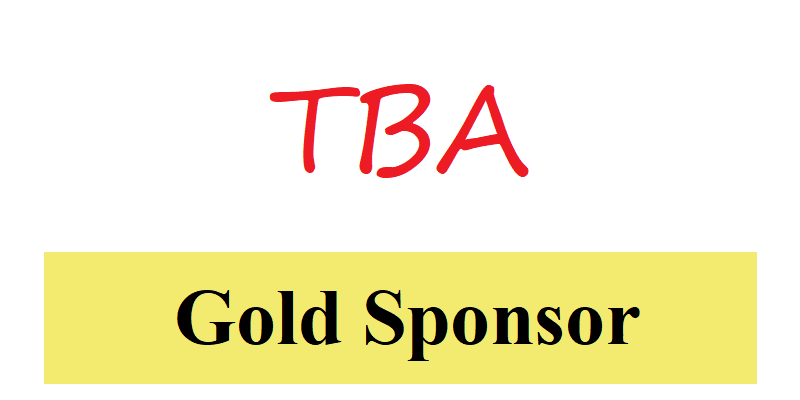
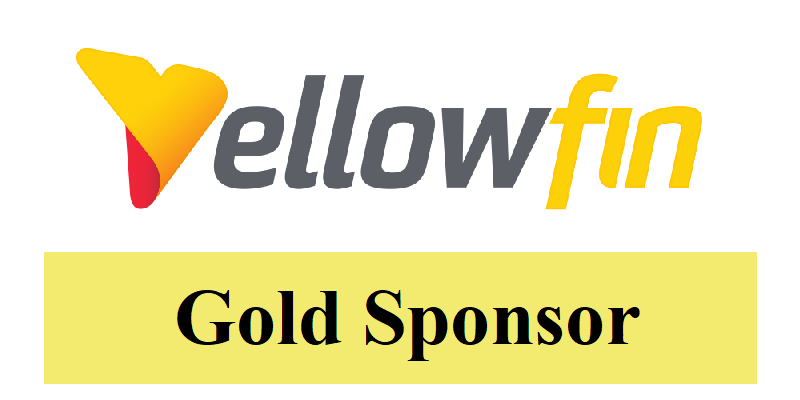
m

Changed region(s): [[0.0938, 0.12, 0.875, 0.54]]

diff --git a/BigDataSociety/Hackathon/2018-07/index.html b/BigDataSociety/Hackathon/2018-07/index.html
@@ -136,8 +136,8 @@
             <hr />
 
 
-            <a href="#" target="_blank"><img src="image\Platinum.png" width="200" /></a> &nbsp;&nbsp;&nbsp;&nbsp;
-            <a href="#" target="_blank"><img src="image\Gold.png" width="200" /></a> &nbsp;&nbsp;&nbsp;&nbsp;
+            <a href="https://www.sas.com/" target="_blank"><img src="image\Platinum.png" width="200" /></a> &nbsp;&nbsp;&nbsp;&nbsp;
+            <a href="https://www.yellowfinbi.com/" target="_blank"><img src="image\Gold.png" width="200" /></a> &nbsp;&nbsp;&nbsp;&nbsp;
             <a href="#" target="_blank"><img src="image\Silver.png" width="200" /></a> &nbsp;&nbsp;&nbsp;&nbsp;
             <a href="#" target="_blank"><img src="image\Bronze.png" width="200" /></a> 
 
@@ -158,11 +158,11 @@
             <ul>
                 <li>08:30-09:00: Registration</li>
                 <li>09:00-10:00: Key Note, <a href="https://data-science-group.github.io/people/aminbeheshti/" target="_blank">Dr. Amin Beheshti</a>, "Big Data and the Future of our Kids!"</li>
-                <li>10:00-11:00: Industry Talk 1 (TBA)</li>
+                <li>10:00-11:00: Industry Talk 1 (SAS)</li>
                 <li>11:00-12:00: Industry Talk 2 (TBA)</li>
                 <li>12:00-13:00: Lunch and networking</li>
-                <li>13:00-15:00: Workshop 1 (TBA)</li>
-                <li>13:00-15:00: Workshop 2 (TBA)</li>
+                <li>13:00-15:00: Workshop 1 (SAS)</li>
+                <li>13:00-15:00: Workshop 2 (Yellowfin)</li>
             </ul>
             <h3>5th July: Hackathon</h3>
             <ul>
